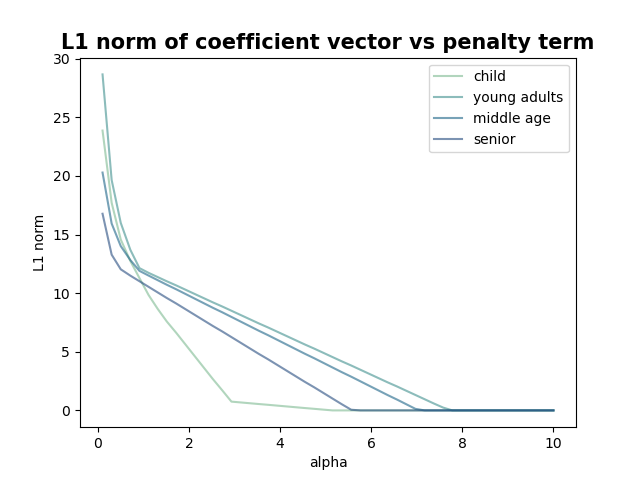
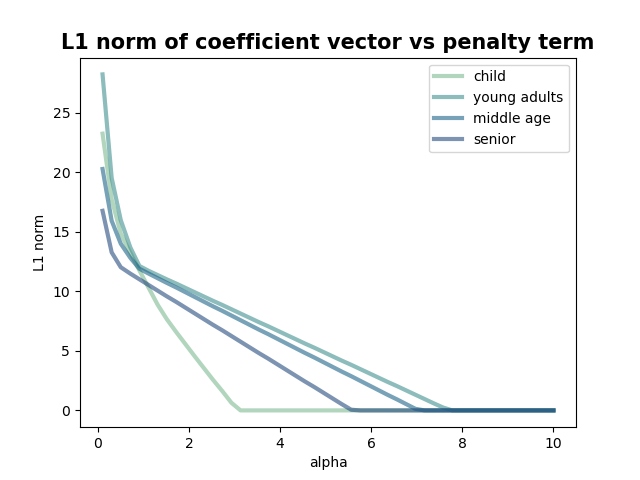
Finalize Magging

diff --git a/magging/optimal_penalty.py b/magging/optimal_penalty.py
@@ -83,9 +83,9 @@ Preprocessor = ColumnTransformer(
 dataset_to_plot = 'mimic'
 
 Xy = Preprocessor.fit_transform(_Xydata[dataset_to_plot])
-sns.kdeplot(Xy['numeric__fio2'])
+'''sns.kdeplot(Xy['numeric__fio2'])
 plt.show()
-raise ValueError
+raise ValueError'''
 
 # dict to store the results
 results = {group: {'alpha': [], 'l1_norm': [], 'num features': [], 'mse': []} for group in _Xydata[dataset_to_plot]['age_group'].cat.categories}
@@ -118,10 +118,10 @@ for group in _Xydata[dataset_to_plot][grouping_column].cat.categories:
 # L1 norm vs. penalty term plot
 fig1, ax1 = plt.subplots()
 if 'child' in _Xydata[dataset_to_plot][grouping_column].cat.categories:
-    ax1.plot(results['child']['alpha'], results['child']['l1_norm'], label='child', color=(0.48942421, 0.72854938, 0.56751036), alpha=0.6)
-ax1.plot(results['young adults']['alpha'], results['young adults']['l1_norm'], label='young adults', color=(0.24929311, 0.56486397, 0.5586654), alpha=0.6)
-ax1.plot(results['middle age']['alpha'], results['middle age']['l1_norm'], label='middle age', color=(0.11131735, 0.39155635, 0.53422678), alpha=0.6)
-ax1.plot(results['senior']['alpha'], results['senior']['l1_norm'], label='senior', color=(0.14573579, 0.29354139, 0.49847009), alpha=0.6)
+    ax1.plot(results['child']['alpha'], results['child']['l1_norm'], label='child', color=(0.48942421, 0.72854938, 0.56751036), alpha=0.6 , linewidth=3)
+ax1.plot(results['young adults']['alpha'], results['young adults']['l1_norm'], label='young adults', color=(0.24929311, 0.56486397, 0.5586654), alpha=0.6, linewidth=3)
+ax1.plot(results['middle age']['alpha'], results['middle age']['l1_norm'], label='middle age', color=(0.11131735, 0.39155635, 0.53422678), alpha=0.6, linewidth=3)
+ax1.plot(results['senior']['alpha'], results['senior']['l1_norm'], label='senior', color=(0.14573579, 0.29354139, 0.49847009), alpha=0.6, linewidth=3)
 plt.xlabel('alpha')
 plt.ylabel('L1 norm')
 plt.title('L1 norm of coefficient vector vs penalty term', fontdict={'fontweight': 'bold', 'fontsize': 15})
@@ -130,10 +130,10 @@ ax1.legend()
 # MSE vs. penalty term plot
 fig2, ax2 = plt.subplots()
 if 'child' in _Xydata[dataset_to_plot][grouping_column].cat.categories:
-    ax2.plot(results['child']['alpha'], results['child']['mse'], label='child', color=(0.48942421, 0.72854938, 0.56751036), alpha=0.6)
-ax2.plot(results['young adults']['alpha'], results['young adults']['mse'], label='young adults', color=(0.24929311, 0.56486397, 0.5586654), alpha=0.6)
-ax2.plot(results['middle age']['alpha'], results['middle age']['mse'], label='middle age', color=(0.11131735, 0.39155635, 0.53422678), alpha=0.6)
-ax2.plot(results['senior']['alpha'], results['senior']['mse'], label='senior', color=(0.14573579, 0.29354139, 0.49847009), alpha=0.6)
+    ax2.plot(results['child']['alpha'], results['child']['mse'], label='child', color=(0.48942421, 0.72854938, 0.56751036), alpha=0.6, linewidth=3)
+ax2.plot(results['young adults']['alpha'], results['young adults']['mse'], label='young adults', color=(0.24929311, 0.56486397, 0.5586654), alpha=0.6, linewidth=3)
+ax2.plot(results['middle age']['alpha'], results['middle age']['mse'], label='middle age', color=(0.11131735, 0.39155635, 0.53422678), alpha=0.6, linewidth=3)
+ax2.plot(results['senior']['alpha'], results['senior']['mse'], label='senior', color=(0.14573579, 0.29354139, 0.49847009), alpha=0.6, linewidth=3)
 plt.xlabel('alpha')
 plt.ylabel('MSE')
 plt.title('MSE of coefficient vector vs penalty term', fontdict={'fontweight': 'bold', 'fontsize': 15})
@@ -142,10 +142,10 @@ ax2.legend()
 # Number of non-zero features in parameter vector vs penalty term plot
 fig3, ax3 = plt.subplots()
 if 'child' in _Xydata[dataset_to_plot][grouping_column].cat.categories: 
-    ax3.plot(results['child']['alpha'], results['child']['num features'], label='child', color=(0.48942421, 0.72854938, 0.56751036), alpha=0.6)
-ax3.plot(results['young adults']['alpha'], results['young adults']['num features'], label='young adults', color=(0.24929311, 0.56486397, 0.5586654), alpha=0.6)
-ax3.plot(results['middle age']['alpha'], results['middle age']['num features'], label='middle age', color=(0.11131735, 0.39155635, 0.53422678), alpha=0.6)
-ax3.plot(results['senior']['alpha'], results['senior']['num features'], label='senior', color=(0.14573579, 0.29354139, 0.49847009), alpha=0.6)
+    ax3.plot(results['child']['alpha'], results['child']['num features'], label='child', color=(0.48942421, 0.72854938, 0.56751036), alpha=0.6, linewidth=3)
+ax3.plot(results['young adults']['alpha'], results['young adults']['num features'], label='young adults', color=(0.24929311, 0.56486397, 0.5586654), alpha=0.6, linewidth=3)
+ax3.plot(results['middle age']['alpha'], results['middle age']['num features'], label='middle age', color=(0.11131735, 0.39155635, 0.53422678), alpha=0.6, linewidth=3)
+ax3.plot(results['senior']['alpha'], results['senior']['num features'], label='senior', color=(0.14573579, 0.29354139, 0.49847009), alpha=0.6, linewidth=3)
 plt.xlabel('alpha')
 plt.ylabel('Number of non-zero features')
 plt.title('Number of non-zero features vs penalty term', fontdict={'fontweight': 'bold', 'fontsize': 15})

diff --git a/magging/empirical_magging.py b/magging/empirical_magging.py
@@ -19,7 +19,8 @@ Regressor='magging'
 grouping_column = 'age_group'
 age_group = True
 dataset_to_plot = 'mimic'
-optimal_alphas = {'child': 1.72, 'young adults': 2.73 , 'middle age': 2.32, 'senior': 1.92}
+oracle_dataset = 'miiv'
+optimal_alphas = {'child': 2.8, 'young adults': 7 , 'middle age': 6.4, 'senior': 5.2}
 
 # Load data from global parquet folder 
 def load_data(outcome, source, version='train'):
@@ -60,9 +61,13 @@ pipeline = Pipeline(steps=[
         ])
 
 Xy = Preprocessor.fit_transform(_Xydata[dataset_to_plot])
+oracle_Xy = Preprocessor.fit_transform(_Xydata[oracle_dataset])
+oracle_X = oracle_Xy.drop(columns=['outcome__outcome', f'grouping_column__{grouping_column}'])
 X = Xy.drop(columns = ['outcome__outcome', f'grouping_column__{grouping_column}'])
 
+
 group_predictions = []
+out_of_sample_prediction = []
 in_group_pred = {}
 for group in ['child', 'young adults', 'middle age', 'senior']:
     model = Lasso(max_iter=10000, alpha=optimal_alphas[group])
@@ -71,12 +76,14 @@ for group in ['child', 'young adults', 'middle age', 'senior']:
     _ygroup = np.array(_Xygroup[['outcome__outcome']]).reshape(-1)
     model.fit(_Xgroup, _ygroup)
     in_group_pred[group] = model.predict(_Xgroup)
+    out_of_sample_prediction.append(model.predict(oracle_X))
     print(model.coef_)
     Sigma = (np.matrix(X).T@np.matrix(X))/np.matrix(X).shape[0]
     u_array = np.array(model.coef_)
-    print(f'Magging distance for group {group}: ', ((u_array).T @ Sigma @ (u_array)))
+    print(f'Magging distance for group {group}: ', ((u_array).T @ Sigma @ (u_array)))   
     group_predictions.append(model.predict(X))
 
+'''
 nrows = len(['child', 'young adults', 'middle age', 'senior'])//2
 ncols = 2
 # Standardized residuals plot
@@ -92,7 +99,7 @@ for i, group in enumerate(['child', 'young adults', 'middle age', 'senior']):
     plt.title(group)
 fig.suptitle("Standardized Residuals Plot", fontweight='bold', fontsize=15)
 plt.tight_layout()
-#plt.show()
+plt.show()
 
 nrows = len(['child', 'young adults', 'middle age', 'senior'])//2
 ncols = 2
@@ -112,7 +119,7 @@ for i, group in enumerate(['child', 'young adults', 'middle age', 'senior']):
     plt.title(group)
 fig.suptitle("Tukey-Anscombe Plot for Groups", fontweight='bold', fontsize=15)
 plt.tight_layout()
-#plt.show()
+plt.show()
 
 # QQ Plot
 nrows = len(['child', 'young adults', 'middle age', 'senior'])//2
@@ -129,7 +136,7 @@ for i, group in enumerate(['child', 'young adults', 'middle age', 'senior']):
     plt.title(group)
 plt.suptitle(f'QQ Plot', fontweight='bold', fontsize=15)
 plt.tight_layout()
-#plt.show()
+plt.show()
 
 # Correlation plot
 for i, group in enumerate(['child', 'young adults', 'middle age', 'senior']):
@@ -140,14 +147,14 @@ for i, group in enumerate(['child', 'young adults', 'middle age', 'senior']):
     plt.ylabel('y')
     plt.gca().spines['top'].set_visible(False)
     plt.gca().spines['right'].set_visible(False)
-#    plt.show()
-
+    plt.show()
+'''
 group_prediction_matrix = np.matrix(group_predictions).T
 r = group_prediction_matrix.shape[1]
 if r == 1:
     print('Warning: Only one group exists!')
 fhat = group_prediction_matrix
-H = fhat.T @ fhat / X.shape[0]
+H = fhat.T @ fhat / oracle_X.shape[0]
 
 print(np.linalg.eigvals(H))
 
@@ -166,6 +173,9 @@ solution = solvers.qp(P, q, G, h, A, b)
 w = np.array(solution['x']).round(4).flatten() # Magging weights
 print(w)
 
+y_pred = np.dot(w, out_of_sample_prediction)
+mse = mean_squared_error(oracle_Xy['outcome__outcome'].values, y_pred)
+print(mse)
 
 raise ValueError
 pipeline.named_steps['model'].group_predictions(X)

diff --git a/magging/plotting.py b/magging/plotting.py
@@ -44,6 +44,16 @@ else:
     for dataset in ['eicu', 'hirid', 'miiv', 'mimic']:
         _Xydata[dataset][category].fillna(value='N/A', inplace=True)
 
+
+# KDE for outdome across datasets
+hr = {}
+for dataset in ['eicu', 'hirid', 'mimic', 'miiv']:
+    hr[dataset]=_Xydata[dataset]['outcome']
+
+_df_hr = pd.DataFrame(hr)
+plt.subplots()
+sns.kdeplot(_df_hr, fill=True, linewidth=2, alpha=0.3, common_norm=False)
+
 # Population pie charts
 for dataset in ['eicu', 'hirid', 'mimic', 'miiv']:
     _Xydata[dataset][category] = _Xydata[dataset][category].cat.remove_unused_categories()
@@ -80,7 +90,7 @@ for dataset in ['eicu', 'hirid', 'miiv', 'mimic']:
 
     # KDE Plot
     ax = sns.kdeplot(data=_Xydata[dataset], x='outcome', hue=category, common_norm=False, hue_order=df_categories,
-                palette='crest', fill=True, linewidth=0, alpha=0.5, legend=False)
+                palette='crest', fill=True, linewidth=2.5, alpha=0.5, legend=False)
     ax.set_xlabel('')
     ax.set_ylabel('')
     sns.set_style('ticks')
